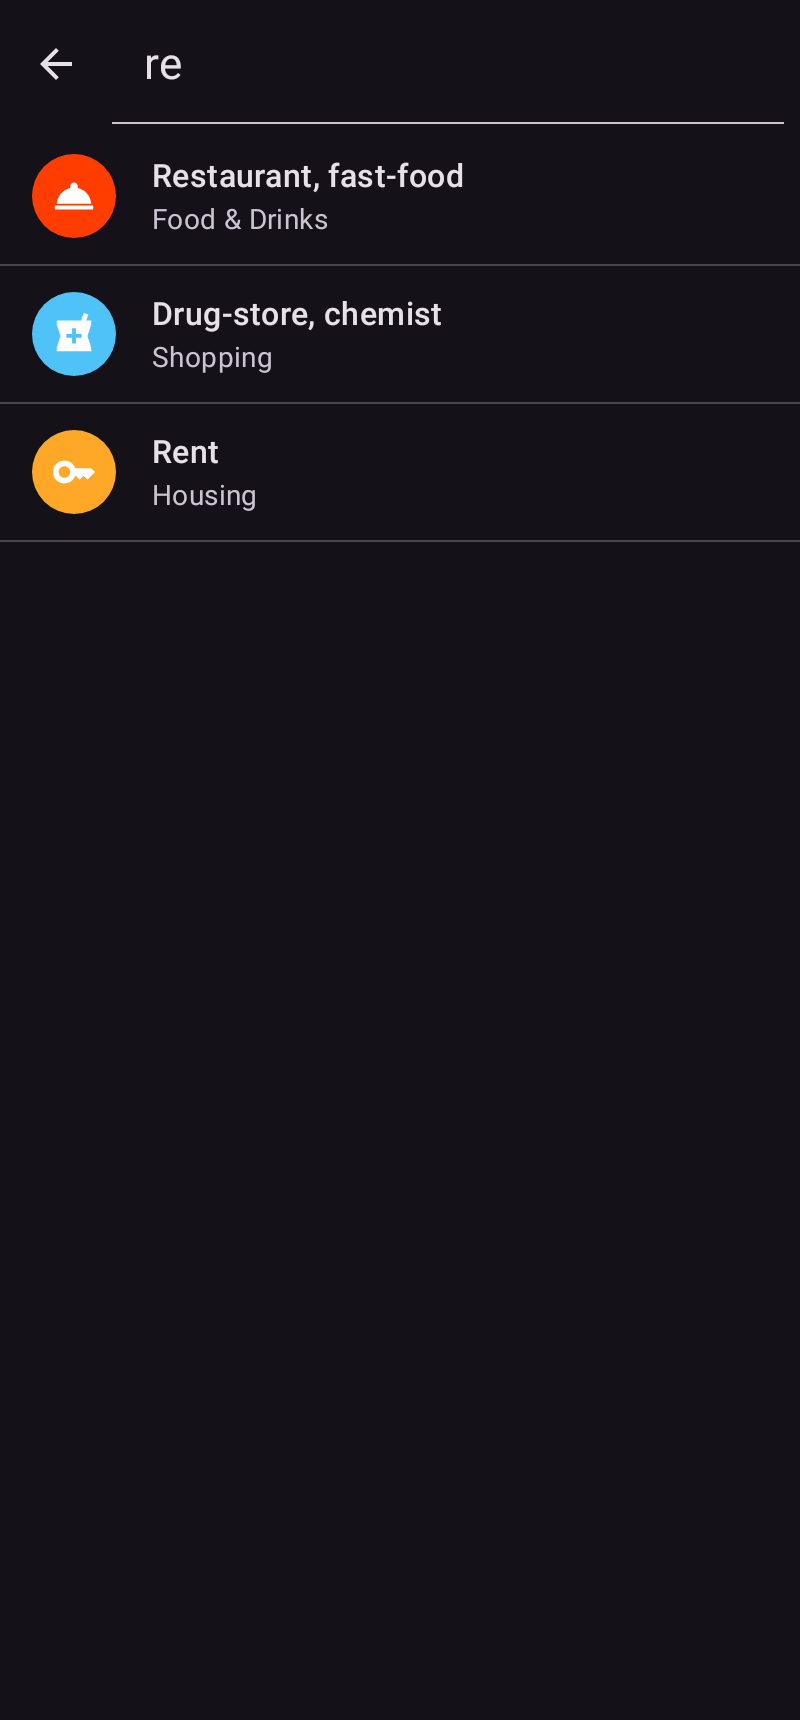
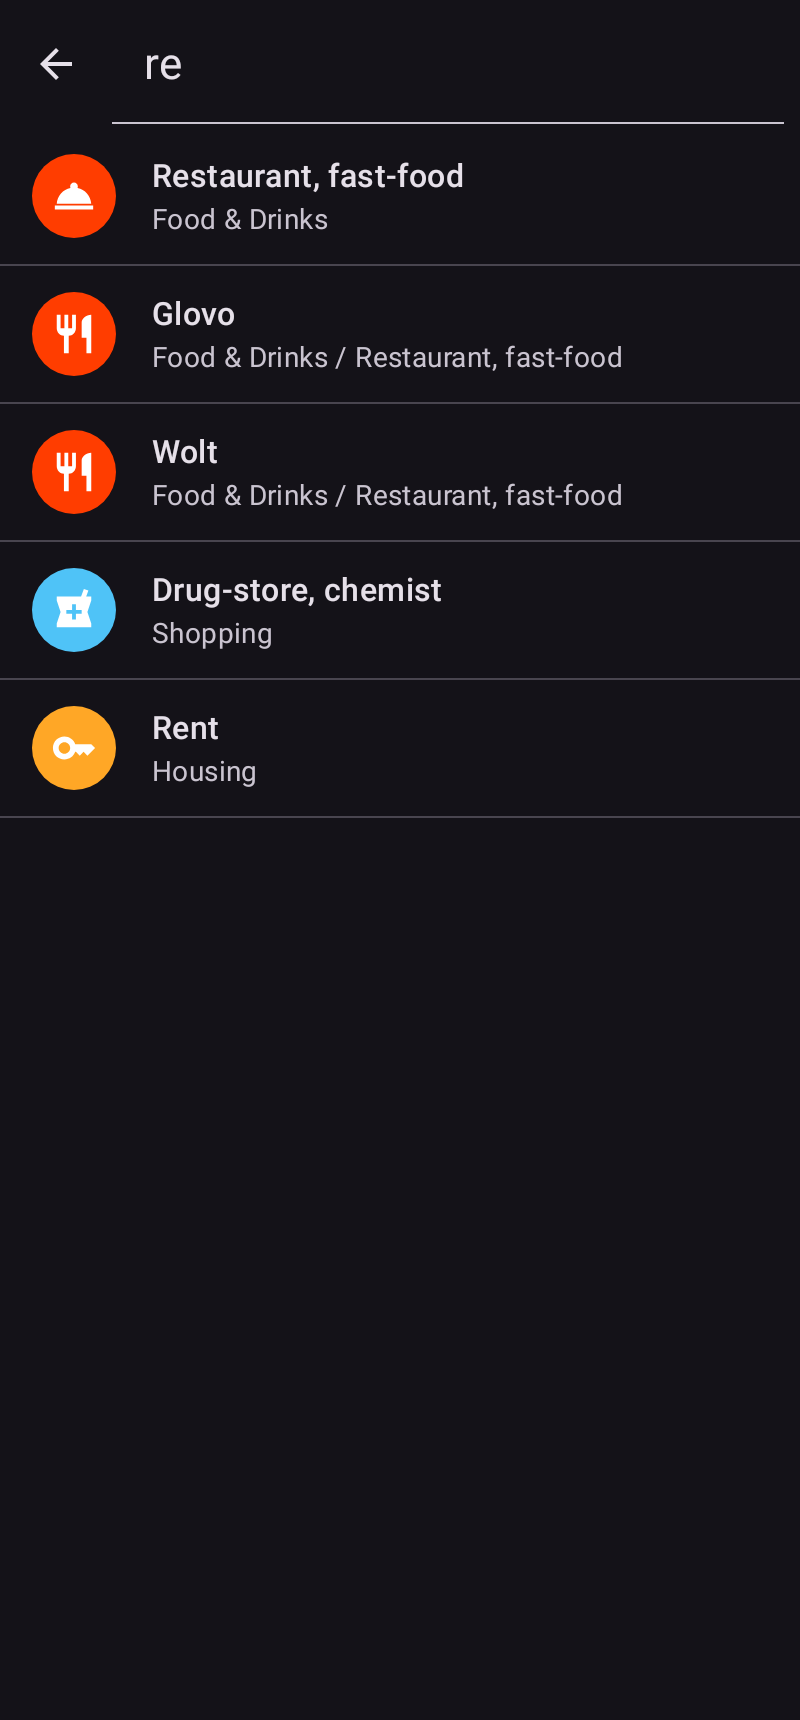
Category picker: match a group's name in search, keep rows clear of the nav bar
Claude-Session: https://claude.ai/code/session_01XnGomdiL5VNb1SnTZHD7Y9

diff --git a/app/src/main/java/su/iho/tbc2wallet/CategoryPicker.kt b/app/src/main/java/su/iho/tbc2wallet/CategoryPicker.kt
@@ -54,7 +54,8 @@ import su.iho.tbc2wallet.data.CategoryEntity
  */
 @Composable
 internal fun CategoryPickerDialog(categories: List<CategoryEntity>, onPick: (CategoryEntity) -> Unit, onDismiss: () -> Unit) {
-    Dialog(onDismiss, DialogProperties(usePlatformDefaultWidth = false, decorFitsSystemWindows = false)) {
+    // Fits the system bars, so the last rows aren't drawn under the navigation bar.
+    Dialog(onDismiss, DialogProperties(usePlatformDefaultWidth = false)) {
         CategoryPicker(categories, onPick, onDismiss)
     }
 }
@@ -141,20 +142,24 @@ internal fun CategoryPicker(
     }
 }
 
-/** Every pickable row matching [query], with the names above it ("Food & Drinks / Bar, cafe"). */
-private fun searchRows(tree: List<CategoryNode>, query: String): List<Pair<CategoryNode, String?>> {
+/**
+ * Every pickable row matching [query], with the names above it ("Food & Drinks / Bar, cafe").
+ * A row also matches when a row above it does, so "Income" lists everything in that group.
+ */
+internal fun searchRows(tree: List<CategoryNode>, query: String): List<Pair<CategoryNode, String?>> {
     val q = query.trim()
     if (q.isEmpty()) return emptyList()
     val out = mutableListOf<Pair<CategoryNode, String?>>()
-    fun walk(nodes: List<CategoryNode>, above: List<String>) {
+    fun walk(nodes: List<CategoryNode>, above: List<String>, aboveMatched: Boolean) {
         for (n in nodes) {
-            if (n.category != null && n.name.contains(q, ignoreCase = true)) {
+            val matched = aboveMatched || n.name.contains(q, ignoreCase = true)
+            if (n.category != null && matched) {
                 out += n.copy(children = emptyList()) to above.takeIf { it.isNotEmpty() }?.joinToString(" / ")
             }
-            walk(n.children, above + n.name)
+            walk(n.children, above + n.name, matched)
         }
     }
-    walk(tree, emptyList())
+    walk(tree, emptyList(), false)
     return out
 }
 

diff --git a/app/src/test/java/su/iho/tbc2wallet/LogicTest.kt b/app/src/test/java/su/iho/tbc2wallet/LogicTest.kt
@@ -295,6 +295,13 @@ class CategoryTreeTest {
         assertNull(tree[2].category) // Income has no category of its own here: heading only
     }
 
+    @Test fun pickerSearchListsEverythingUnderAMatchingGroup() {
+        val tree = CategoryTree.build(wallet)
+        // Income has no category of its own; its categories still show for "income".
+        assertEquals(listOf("Wage" to "Income"), searchRows(tree, "income").map { it.first.name to it.second })
+        assertEquals(listOf("Wolt" to "Food & Drinks / Restaurant"), searchRows(tree, "wol").map { it.first.name to it.second })
+    }
+
     @Test fun searchFindsDeepRowsAndEditedPaths() {
         val tree = CategoryTree.build(wallet)
         val f = CategoryTree.filter(tree, "wol")
